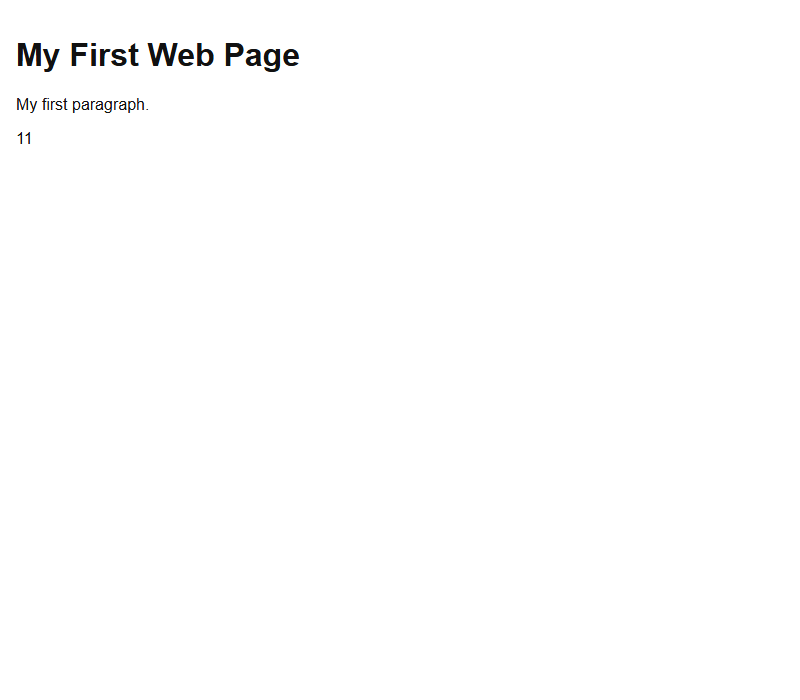
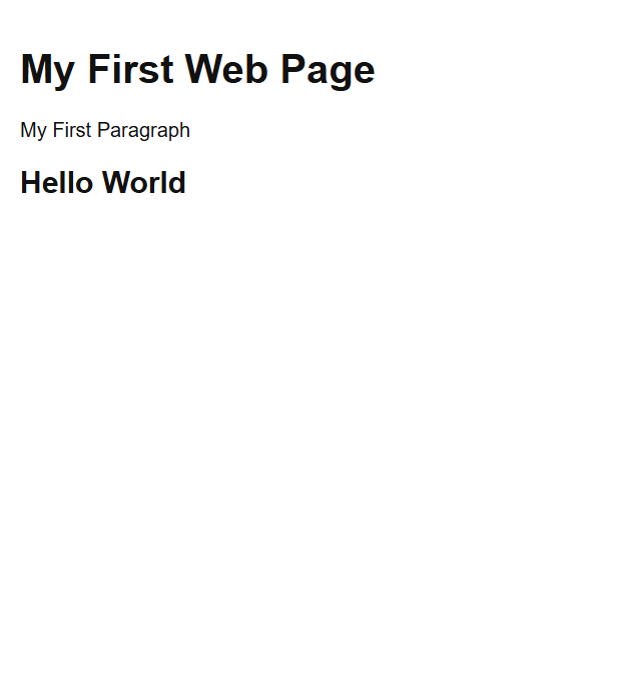
0.4: JS Output — document JS tutorial section
Rewrite the JS Output accordion to the per-example standard: innerHTML,
innerText, document.write(), window.alert(), console.log(), plus a
window.print() note. Each example has tested sandbox source, a code snap, a
result snap, and a written outcome. Add alert.html and an on-page console
mirror so console output is visible in the snapshot.

Changed region(s): [[0.0, 0.0609, 0.6061, 0.213], [0.0303, 0.2435, 0.303, 0.3043]]

diff --git a/Files/javascript/code_sandbox/js-output/console.html b/Files/javascript/code_sandbox/js-output/console.html
@@ -8,8 +8,20 @@
   <body>
     <h1>My First Web Page</h1>
     <p>Open the browser console to see <code>console.log(5 + 6)</code>.</p>
+    <p>Console output (mirrored to the page for the snapshot):</p>
+    <pre
+      id="out"
+      style="
+        background: #1e1e1e;
+        color: #d4d4d4;
+        padding: 10px 14px;
+        border-radius: 4px;
+        font-family: Consolas, monospace;
+      "
+    ></pre>
     <script>
       console.log(5 + 6);
+      document.getElementById("out").textContent = "> " + (5 + 6);
     </script>
   </body>
 </html>

diff --git a/Files/javascript/code_sandbox/js-output/alert.html b/Files/javascript/code_sandbox/js-output/alert.html
@@ -1,0 +1,18 @@
+<!doctype html>
+<html>
+  <head>
+    <meta name="color-scheme" content="light" />
+    <title>JS Output - window.alert</title>
+    <link rel="stylesheet" href="../sandbox.css" />
+  </head>
+  <body>
+    <h1>My First Web Page</h1>
+    <p>My first paragraph.</p>
+    <button type="button" onclick="alert(5 + 6)">Show alert (5 + 6)</button>
+    <script>
+      if (new URLSearchParams(location.search).has("run")) {
+        alert(5 + 6);
+      }
+    </script>
+  </body>
+</html>

diff --git a/Files/javascript/tutorial.md b/Files/javascript/tutorial.md
@@ -541,74 +541,133 @@ JavaScript can **display data** in several ways: **`innerHTML`**, **`innerText`*
 
 ## Detailed Explanation
 
-- [x] **Display possibilities**
-  - Write into an HTML element with **`innerHTML`** (or **`innerText`**).
-  - Write into the HTML output with **`document.write()`**.
-  - Write into an alert box with **`window.alert()`**.
-  - Write into the browser console with **`console.log()`**.
-- [x] **Using `innerHTML`**
-  - Access an element with **`document.getElementById(id)`**.
-  - Use the **`id`** attribute to identify the element.
-  - Set **`innerHTML`** to change the HTML content.
-  - Changing **`innerHTML`** is the **most common** way to display data in HTML.
-  - Sandbox: `code_sandbox/js-output/index.html` writes `<h2>Hello World</h2>` into `#demo`.
+- [x] **JavaScript has four everyday ways to "display" data**
+  - Into an **HTML element** with **`innerHTML`** or **`innerText`**.
+  - Into the **HTML output stream** with **`document.write()`**.
+  - Into an **alert box** with **`window.alert()`**.
+  - Into the **browser console** with **`console.log()`**.
+- [x] **Common access pattern**
+  - Most on-page output starts with **`document.getElementById(id)`** to grab an element by its `id`, then assigns a property.
 
-<img alt="js-output result" src="./code_sandbox/snaps/js-output-result.png" />
+### **Example 1: Using `innerHTML`**
 
-- [x] **Using `innerText`**
-  - Set **`innerText`** to change **plain text** only.
-  - Use **`innerHTML`** when you want to change an **HTML element**.
-  - Use **`innerText`** when you only want to change the **plain text**.
-  - Sandbox: `code_sandbox/js-output/innertext.html`.
-- [x] **Using `document.write()`**
-  - Convenient for **testing**.
-  - Using `document.write()` **after the document is loaded** **deletes all existing HTML**.
-  - Use it **only for testing**.
-  - Sandbox: `code_sandbox/js-output/write.html` writes `5 + 6` (**11**) during parse.
-
-<img alt="js-output document.write result" src="./code_sandbox/snaps/js-output-01-result.png" />
-
-- [x] **Using `window.alert()`**
-  - An **alert box** can display data: `window.alert(5 + 6)`.
-  - You can **skip** the `window` keyword: `alert(5 + 6)`.
-  - **`window`** is the **global scope** object, so methods belong to it by default.
-- [x] **Using `console.log()`**
-  - For **debugging**, call **`console.log()`** in the browser.
-  - Sandbox: `code_sandbox/js-output/console.html` logs `5 + 6`.
-- [x] **JavaScript print**
-  - JavaScript has **no** print object or print methods for output devices.
-  - The exception is **`window.print()`**, which prints the **current window**.
+- [x] `innerHTML` sets the element's content and **parses it as HTML**, so `"<h2>Hello World</h2>"` renders as a real heading.
+- [x] Changing `innerHTML` is the **most common** way to display data in a page.
+- [x] The target `<p id="demo">` starts empty and is filled by the script during load.
 
 Sandbox: `code_sandbox/js-output/index.html`
 
-<img alt="js-output source" src="./code_sandbox/snaps/js-output-code.png" />
-
 ```html
-<!DOCTYPE html>
-<html>
-  <head>
-    <meta name="color-scheme" content="light" />
-    <title>JS Output - innerHTML</title>
-    <link rel="stylesheet" href="../sandbox.css" />
-  </head>
-  <body>
-    <h1>My First Web Page</h1>
-    <p>My First Paragraph</p>
-    <p id="demo"></p>
-    <script>
-      document.getElementById("demo").innerHTML = "<h2>Hello World</h2>";
-    </script>
-  </body>
-</html>
+<h1>My First Web Page</h1>
+<p>My First Paragraph</p>
+<p id="demo"></p>
+<script>
+  document.getElementById("demo").innerHTML = "<h2>Hello World</h2>";
+</script>
 ```
 
-Rendered result:
+<img alt="js-output example 1 source" src="./code_sandbox/snaps/js-output-01-code.png" />
 
-<img alt="js-output result" src="./code_sandbox/snaps/js-output-result.png" />
+<img alt="js-output example 1 result" src="./code_sandbox/snaps/js-output-01-result.png" />
 
-`document.write(5 + 6)` during parse (`write.html`):
+- [x] **Outcome:** the empty paragraph becomes a large bold **Hello World** heading (the `<h2>` tags were parsed, not shown literally).
 
-<img alt="js-output document.write result" src="./code_sandbox/snaps/js-output-01-result.png" />
+### **Example 2: Using `innerText`**
+
+- [x] `innerText` sets the element's **plain text**; any HTML in the string would show up **literally**, not rendered.
+- [x] Rule of thumb: use **`innerHTML`** to insert markup, **`innerText`** when you only want text.
+
+Sandbox: `code_sandbox/js-output/innertext.html`
+
+```html
+<h1>My First Web Page</h1>
+<p>My First Paragraph</p>
+<p id="demo"></p>
+<script>
+  document.getElementById("demo").innerText = "Hello World";
+</script>
+```
+
+<img alt="js-output example 2 source" src="./code_sandbox/snaps/js-output-02-code.png" />
+
+<img alt="js-output example 2 result" src="./code_sandbox/snaps/js-output-02-result.png" />
+
+- [x] **Outcome:** the paragraph shows plain, normal-sized **Hello World** — compare with Example 1's big heading to see the `innerHTML` vs `innerText` difference.
+
+### **Example 3: Using `document.write()`**
+
+- [x] `document.write()` writes straight into the HTML output **while the page is parsing** — here it prints `5 + 6`, i.e. **11**.
+- [x] **Warning:** calling `document.write()` **after** the page has finished loading (e.g. from a button) **erases the whole document** and replaces it with the written value.
+- [x] Because of that, `document.write()` should be used **only for quick testing**.
+
+Sandbox: `code_sandbox/js-output/write.html`
+
+```html
+<h1>My First Web Page</h1>
+<p>My first paragraph.</p>
+<script>
+  document.write(5 + 6);
+</script>
+
+<!-- After load this wipes the page: -->
+<button type="button" onclick="document.write(5 + 6)">Try it</button>
+```
+
+<img alt="js-output example 3 source" src="./code_sandbox/snaps/js-output-03-code.png" />
+
+<img alt="js-output example 3 result" src="./code_sandbox/snaps/js-output-03-result.png" />
+
+- [x] **Outcome:** during load the number **11** appears under the paragraph. If you instead clicked a **Try it** button after load, the entire page would be replaced by a bare **11**.
+
+### **Example 4: Using `window.alert()`**
+
+- [x] `window.alert(5 + 6)` pops a modal **alert box** showing **11**.
+- [x] The **`window`** keyword is **optional** — `alert(5 + 6)` is identical, because `window` is the **global scope object** and its methods are available unqualified.
+- [x] The alert is a **native browser dialog**, so the snap below shows the trigger page; the dialog itself is described in the outcome.
+
+Sandbox: `code_sandbox/js-output/alert.html`
+
+```html
+<h1>My First Web Page</h1>
+<p>My first paragraph.</p>
+<script>
+  window.alert(5 + 6);
+  // the window keyword is optional:
+  alert(5 + 6);
+</script>
+```
+
+<img alt="js-output example 4 source" src="./code_sandbox/snaps/js-output-04-code.png" />
+
+<img alt="js-output example 4 result" src="./code_sandbox/snaps/js-output-04-result.png" />
+
+- [x] **Outcome:** clicking **Show alert (5 + 6)** (or loading the auto-run version) opens a native dialog reading **11**; the page underneath is unchanged.
+
+### **Example 5: Using `console.log()`**
+
+- [x] `console.log()` writes to the **browser console** (DevTools), the standard tool for **debugging** — it does **not** change the page.
+- [x] To make the value visible in a screenshot, the sandbox **mirrors** the logged value into an on-page box; the real `console.log(5 + 6)` still runs.
+
+Sandbox: `code_sandbox/js-output/console.html`
+
+```html
+<script>
+  console.log(5 + 6);
+</script>
+```
+
+<img alt="js-output example 5 source" src="./code_sandbox/snaps/js-output-05-code.png" />
+
+<img alt="js-output example 5 result" src="./code_sandbox/snaps/js-output-05-result.png" />
+
+- [x] **Outcome:** the browser console logs **11**; the mirrored on-page box shows **> 11** so you can see the value in the snapshot.
+
+### **JavaScript Print**
+
+- [x] JavaScript has **no** print object and cannot access output devices.
+- [x] The one exception is **`window.print()`**, which opens the browser's print dialog for the current window: `<button onclick="window.print()">Print this page</button>`.
+- [x] This opens the OS/browser print dialog (not screenshotted here), so it is documented as code only.
+- [x] **Page exercise —** *Which is NOT correct output syntax?* → **`body.html()`** (there is no such method; the valid ones are `window.alert()`, `console.log()`, `document.write()`).
 
 <details>
   <summary>Terminal Commands</summary>

diff --git a/Files/javascript/tutorial_plan.md b/Files/javascript/tutorial_plan.md
@@ -54,8 +54,8 @@ do **not** duplicate it.
 
 ## Resume pointer
 
-- **Next task:** `0.4` — JS Output (improvement pass; user requested range JS Introduction → JS Strings).
-- **Last completed:** `0.3` JS Where To — rewritten to per-example standard (script tag, head, body, external; per-example snaps).
+- **Next task:** `1.1` — JS Syntax (improvement pass; user requested range JS Introduction → JS Strings).
+- **Last completed:** `0.4` JS Output — rewritten to per-example standard (innerHTML, innerText, document.write, alert, console.log + print note).
 - **Notes:** `tutorial.md` currently has older accordions for JS Introduction → JS String Reference; these are the `(exists — improve)` pages. Working the user's range JS Introduction → JS Strings, one commit per page.
 
 ---
@@ -115,7 +115,7 @@ do **not** duplicate it.
 - [ ] `0.1` JS Home — `default.asp` (new)
 - [x] `0.2` JS Introduction — `js_intro.asp` (exists — improve)
 - [x] `0.3` JS Where To — `js_whereto.asp` (exists — improve)
-- [ ] `0.4` JS Output — `js_output.asp` (exists — improve)
+- [x] `0.4` JS Output — `js_output.asp` (exists — improve)
 
 ### S1 — Syntax & Variables
 
